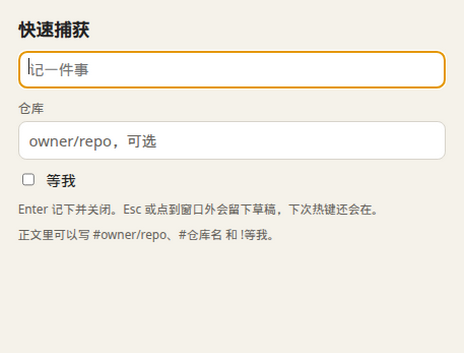
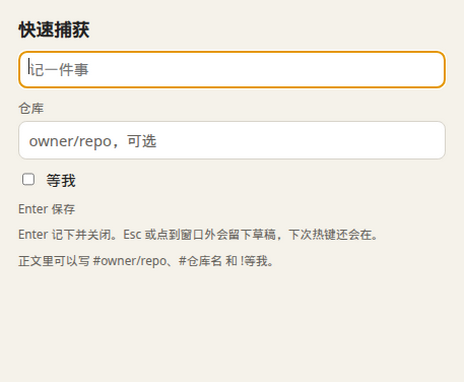
快速捕获窗口补上「Enter 保存」。
两个单行输入仍按 Enter 记下并关闭。截图换成合成数据，短提示能读出来。

Changed region(s): [[0.0302, 0.0312, 0.9655, 0.7167], [0.9353, 0.3428, 0.9655, 0.3739]]

diff --git a/src/main/screenshot-run.ts b/src/main/screenshot-run.ts
@@ -140,20 +140,24 @@ export async function presentScreenshot(options: {
     contents = capture.webContents
     const focused = `document.activeElement === document.querySelector('#text')
       && document.querySelector('#caret')?.hidden === false`
+    const hint = `document.body.innerText.includes('Enter 保存')`
     const expected = scene === 'capture-filled'
       ? `document.querySelector('#text').value === '记一条带仓库的待办'
         && document.querySelector('#repo').value === 'example/demo'
         && document.querySelector('#waiting').checked === true
+        && ${hint}
         && ${focused}`
       : scene === 'capture-draft'
         ? `document.querySelector('#text').value === '把没写完的这半句留在'
           && document.querySelector('#repo').value === 'example/demo'
           && document.querySelector('#waiting').checked === true
           && document.querySelector('#text').selectionStart === document.querySelector('#text').value.length
+          && ${hint}
           && ${focused}`
         : `document.body.innerText.includes('快速捕获')
           && document.querySelector('#text').value === ''
           && document.querySelector('#text').selectionStart === 0
+          && ${hint}
           && ${focused}`
     await waitUntil(contents, expected, scene)
   } else if (scene === 'capture-saved') {

diff --git a/src/renderer/capture.html b/src/renderer/capture.html
@@ -24,6 +24,7 @@
         <span>等我</span>
       </label>
       <p id="error" class="error" role="alert" hidden></p>
+      <p class="hint">Enter 保存</p>
       <p class="hint">Enter 记下并关闭。Esc 或点到窗口外会留下草稿，下次热键还会在。</p>
       <p class="hint">正文里可以写 #owner/repo、#仓库名 和 !等我。</p>
     </form>

diff --git a/src/main/capture-window.ts b/src/main/capture-window.ts
@@ -39,7 +39,7 @@ export function focusCaptureInput(window: BrowserWindow): void {
 export function createCaptureWindow(options: CaptureWindowOptions): BrowserWindow {
   const window = new BrowserWindow({
     width: 460,
-    height: 348,
+    height: 376,
     show: false,
     title: '快速捕获',
     backgroundColor: '#F5F2EA',
